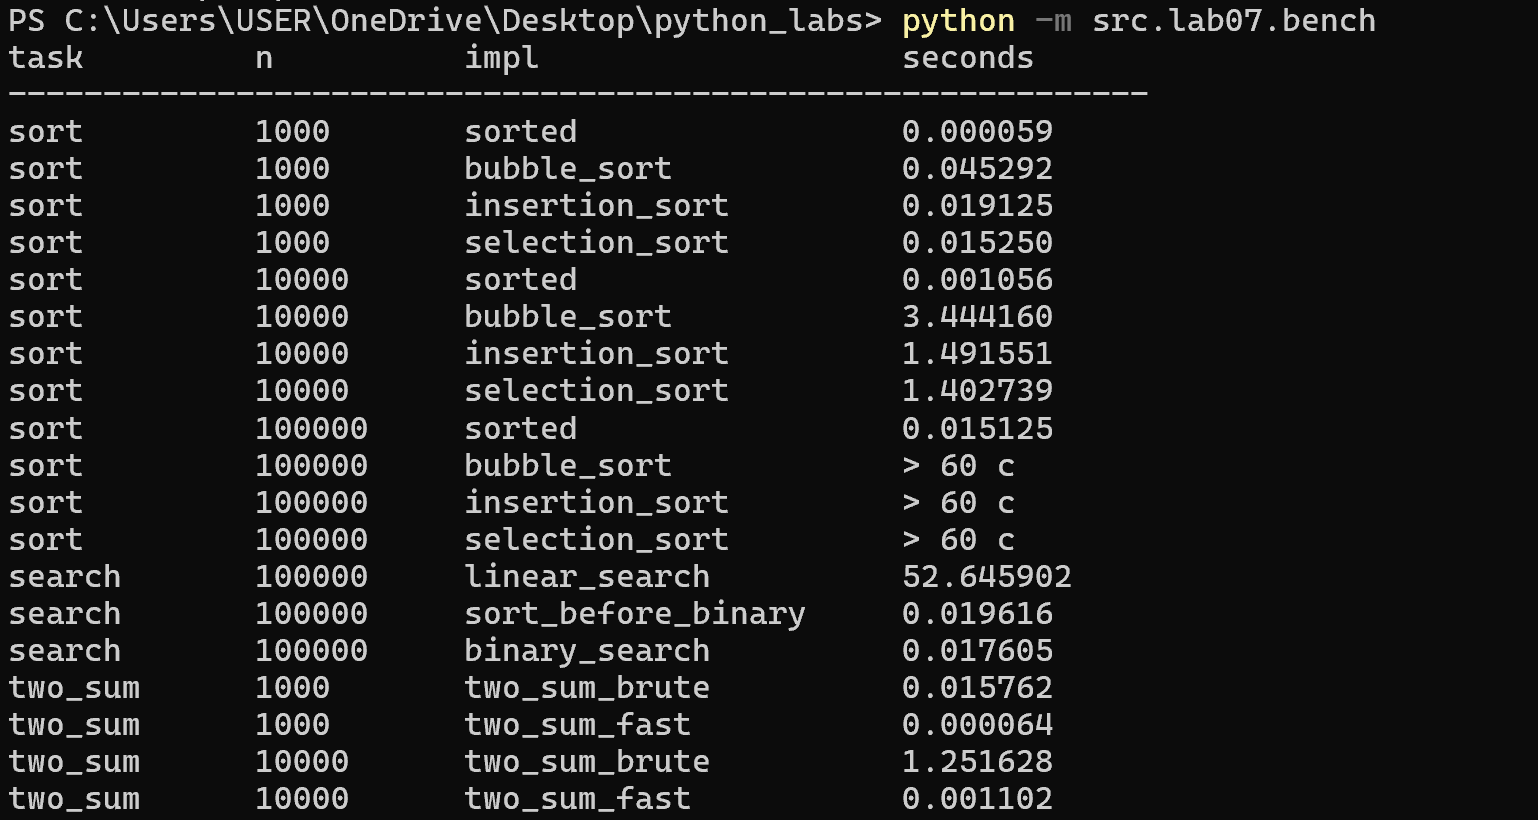
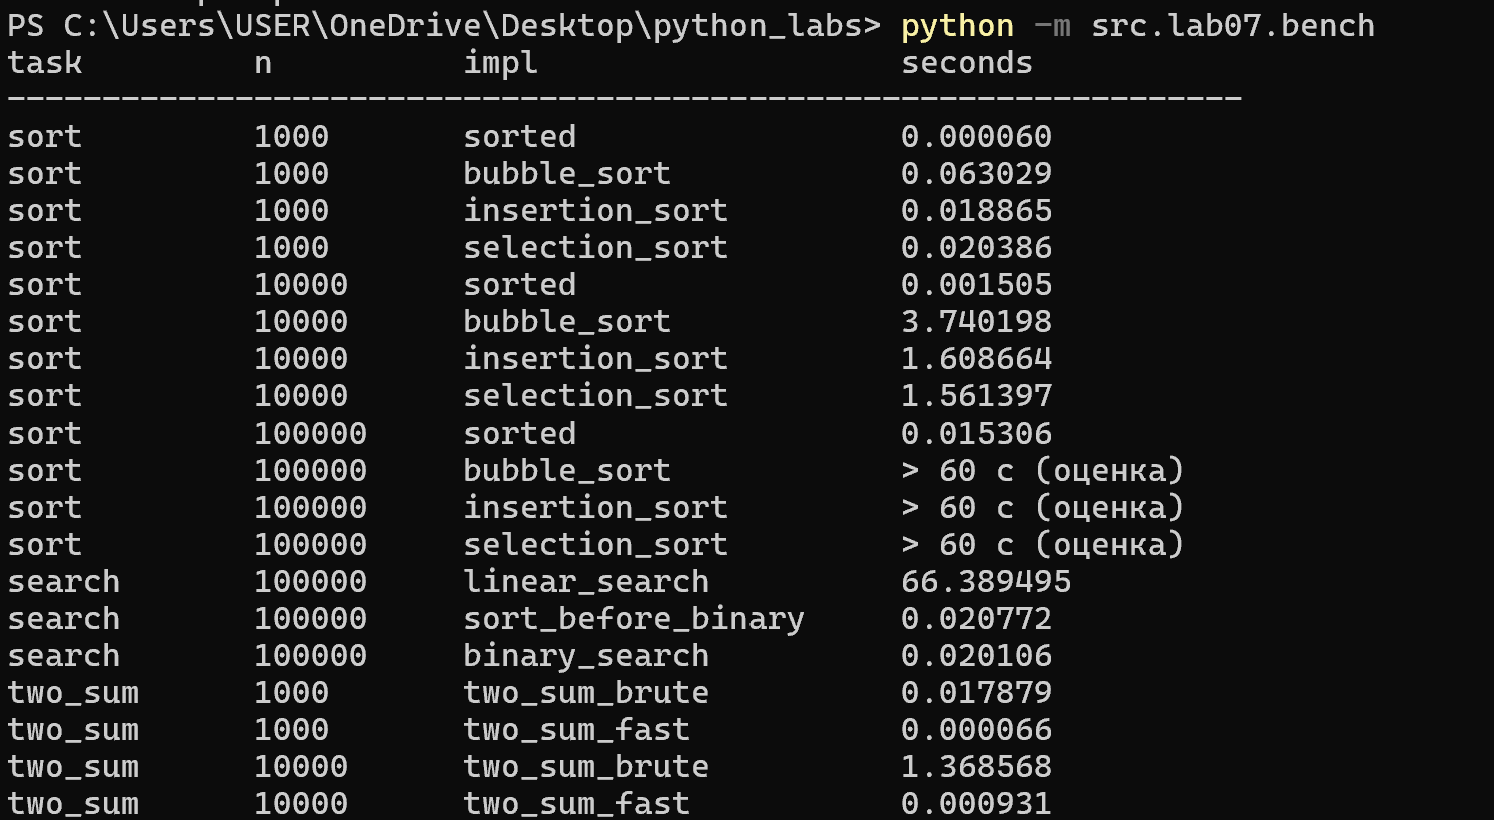
7 lab

Changed region(s): [[0.0, 0.0, 0.9237, 1.0], [0.2771, 0.1524, 0.5542, 1.0], [0.0, 0.1524, 0.0924, 1.0]]

diff --git a/src/lab07/bench.py b/src/lab07/bench.py
@@ -1,7 +1,5 @@
 import random
 import timeit
-import multiprocessing as mp
-from queue import Empty
 from pathlib import Path
 
 from src.lab04.io_txt_csv import write_csv
@@ -12,44 +10,21 @@ def measure(fn, number=1, repeat=5):
     times = timeit.repeat(fn,number=number,repeat=repeat)
     return min(times) / number
 
-def sort_worker(fn, data, queue):
-    try:
-        t = measure(lambda: fn(data),repeat=1)
-        queue.put(t)
-    except Exception as error:
-        queue.put(str(error))
-def limited_time(fn, data, limit=60, repeat=3):
-    times = []
-    for _ in range(repeat):
-        queue = mp.Queue()
-        process = mp.Process(target=sort_worker,args=(fn, data, queue))
-        process.start()
-        process.join(timeout=limit)
-        if process.is_alive():
-            process.terminate()
-            process.join()
-            queue.close()
-            return f"> {limit} с"
-        try:
-            result = queue.get(timeout=5)
-        except Empty:
-            raise RuntimeError(f"Не удалось измерить {fn.__name__}")
-        finally:
-            queue.close()
-        if isinstance(result, str):
-            raise RuntimeError(result)
-        times.append(result)
-    return min(times)
-
-def bench_sorts(n):
+def bench_sorts(n, previous_times):
     data = [random.randint(-10000, 10000) for _ in range(n)]
     rows = []
     functions = (("sorted", sorted),("bubble_sort", bubble_sort),("insertion_sort", insertion_sort),("selection_sort", selection_sort))
     for name, fn in functions:
         if n == 100_000 and name != "sorted":
-            t = limited_time(fn, data)
+            estimated = previous_times[name] * (n / 10_000) ** 2
+            if estimated > 60:
+                t = "> 60 с (оценка)"
+            else:
+                t = measure(lambda: fn(data),repeat=3)
         else:
             t = measure(lambda: fn(data))
+        if n == 10_000:
+            previous_times[name] = t
         rows.append(("sort", n, name, t))
     return rows
 
@@ -77,19 +52,21 @@ def bench_two_sum(n):
 def main():
     random.seed(42)
     rows = []
+    previous_times = {}
     for n in (1_000, 10_000, 100_000):
-        rows.extend(bench_sorts(n))
+        rows.extend(bench_sorts(n, previous_times))
     rows.extend(bench_search())
     for n in (1_000, 10_000):
         rows.extend(bench_two_sum(n))
-    print(f"{'task':<12} {'n':<10} {'impl':<22} {'seconds':<15}")
-    print("-" * 60)
+    print(f"{'task':<12} {'n':<10} {'impl':<22} {'seconds':<20}")
+    print("-" * 65)
     for task, n, impl, seconds in rows:
         if isinstance(seconds, float):
             seconds = f"{seconds:.6f}"
-        print(f"{task:<12} {n:<10} {impl:<22} {seconds:<15}")
+        print(f"{task:<12} {n:<10} {impl:<22} {seconds:<20}")
     path = Path("data/lab07/bench.csv")
     path.parent.mkdir(parents=True, exist_ok=True)
     write_csv(rows,path,header=("task", "n", "impl", "seconds"))
+
 if __name__ == "__main__":
     main()

diff --git a/src/lab07/README.md b/src/lab07/README.md
@@ -77,27 +77,19 @@ python -m src.lab07.check
 
 `measure`
 
-Несколько раз измеряет время выполнения функции с помощью timeit.repeat() и возвращает минимальное время в расчёте на один запуск
-
-`sort_worker`
-
-Измеряет время сортировки в отдельном процессе и передаёт результат через очередь
-
-`limited_time`
-
-Выполняет несколько замеров с ограничением времени. Если процесс превышает установленный лимит, он принудительно завершается
+Несколько раз измеряет время выполнения функции с помощью timeit.repeat() и возвращает минимальное время одного запуска
 
 `bench_sorts`
 
-Сравнивает время работы трёх реализованных сортировок и встроенной функции sorted() на одинаковых данных
+Сравнивает время работы трёх реализованных сортировок и встроенной функции sorted() на одинаковых данных. Если ожидаемое время сортировки превышает 60 секунд, она пропускается
 
 `bench_search`
 
-Сравнивает время линейного и бинарного поиска при выполнении 10 000 запросов. Отдельно измеряет время предварительной сортировки
+Сравнивает время выполнения 10 000 запросов линейного и бинарного поиска. Также отдельно измеряет время предварительной сортировки списка
 
 `bench_two_sum`
 
-Сравнивает время поиска пары обычным перебором и с использованием словаря
+Сравнивает время поиска пары элементов с заданной суммой перебором и с использованием словаря
 
 Запуск:
 
@@ -111,25 +103,26 @@ python -m src.lab07.bench
 
 ```
 task,n,impl,seconds
-sort,1000,sorted,5.9299985878169537e-05
-sort,1000,bubble_sort,0.04529199993703514
-sort,1000,insertion_sort,0.019124799990095198
-sort,1000,selection_sort,0.01525009993929416
-sort,10000,sorted,0.00105640001129359
-sort,10000,bubble_sort,3.4441603999584913
-sort,10000,insertion_sort,1.491551399929449
-sort,10000,selection_sort,1.402738800039515
-sort,100000,sorted,0.015124500030651689
-sort,100000,bubble_sort,> 60 с
-sort,100000,insertion_sort,> 60 с
-sort,100000,selection_sort,> 60 с
-search,100000,linear_search,52.6459021999035
-search,100000,sort_before_binary,0.019615800003521144
-search,100000,binary_search,0.017605199944227934
-two_sum,1000,two_sum_brute,0.015762399998493493
-two_sum,1000,two_sum_fast,6.440002471208572e-05
-two_sum,10000,two_sum_brute,1.2516276000533253
-two_sum,10000,two_sum_fast,0.001101600006222725
+sort,1000,sorted,6.0399994254112244e-05
+sort,1000,bubble_sort,0.0630285000661388
+sort,1000,insertion_sort,0.01886539999395609
+sort,1000,selection_sort,0.020386300049722195
+sort,10000,sorted,0.0015051999362185597
+sort,10000,bubble_sort,3.740198100102134
+sort,10000,insertion_sort,1.608664199942723
+sort,10000,selection_sort,1.561396799981594
+sort,100000,sorted,0.015306100016459823
+sort,100000,bubble_sort,> 60 с (оценка)
+sort,100000,insertion_sort,> 60 с (оценка)
+sort,100000,selection_sort,> 60 с (оценка)
+search,100000,linear_search,66.38949510001112
+search,100000,sort_before_binary,0.020772499963641167
+search,100000,binary_search,0.020106200012378395
+two_sum,1000,two_sum_brute,0.017879400053061545
+two_sum,1000,two_sum_fast,6.550003308802843e-05
+two_sum,10000,two_sum_brute,1.3685682999202982
+two_sum,10000,two_sum_fast,0.0009305999847128987
+
 ```
 
 Результаты в консоли:
